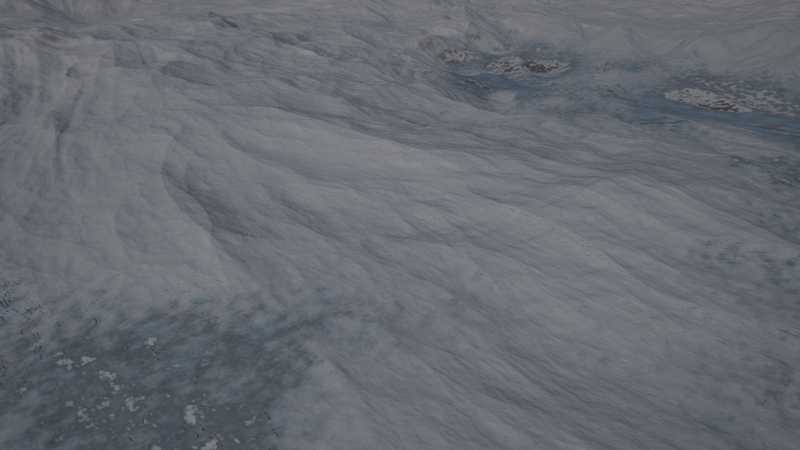
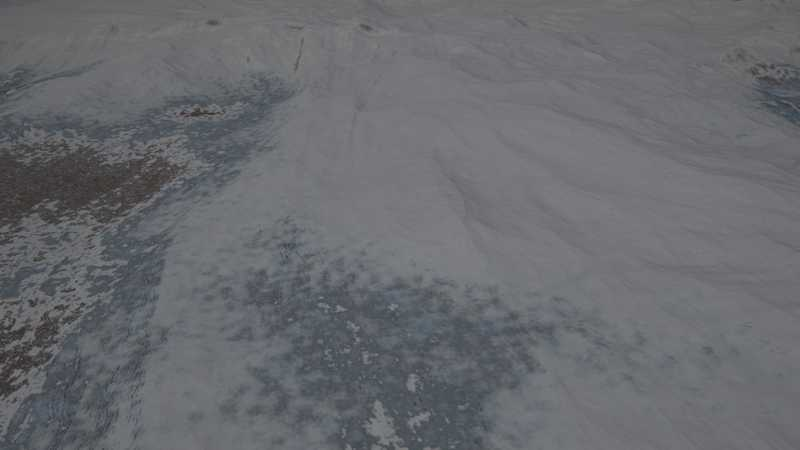
cold kit: seasonal snow date fades to the ecoregion border (no snow-free blobs in the mosaic), ragged melt edge with polygon snow net; no managed forestry where biome trees < 0.6 (temperate minimal change); new stills

diff --git a/crates/terragen/src/kits/cold.rs b/crates/terragen/src/kits/cold.rs
@@ -102,9 +102,9 @@ pub(crate) fn climate(s: &Stack) -> ColdClimate {
     let site = &s.bio.site;
     let f = |x: f64| x as f32 as f64;
     let d = year_date(f(site.temp_c), f(site.precip_mm), f(site.temp_range_c), s.bio.style.season);
-    // (where the ecoregions' mosaic is below the pixel, the date's effect fades to the border,
-    // where both sides meet at the annual mean: no seam between a winter and a summer ecoregion)
-    let date = ts - half * (std::f64::consts::TAU * (d - 0.04)).cos() * (1.0 - 2.0 * s.bio.w).max(0.0);
+    // (the date's effect fades to the ecoregion border over the ecotone, where both sides meet at
+    // the annual mean: no patches of a winter and a spring ecoregion in the border mosaic)
+    let date = ts - half * (std::f64::consts::TAU * (d - 0.04)).cos() * smoothstep(0.0, 10.0, s.bio.edge_km);
     ColdClimate { t: ts, summer: ts + 0.95 * half, date }
 }
 
@@ -837,7 +837,22 @@ fn snow(s: &mut Stack, c: &ColdClimate, g: &Ice) {
         }
     }
     // (slopes facing the equator lose their snow first)
-    let mut cov = smoothstep(-0.8, -1.2, c.date + n + 2.5 * sunny(s).clamp(-1.0, 1.0)) * (1.0 - smoothstep(0.75, 1.3, s.l.slope));
+    let mut x = c.date + n + 2.5 * sunny(s).clamp(-1.0, 1.0);
+    // late melt: rims and centres of the frost polygons bare first, the troughs keep their snow
+    // (a net of snow), the edges ragged with fine noise
+    if x > -3.2 && x < 1.0 {
+        let b4 = band(4.0, gsd);
+        if b4 > 0.0 {
+            x += 0.8 * perlin3(SEED_SNOW + 4, p / 4.0) * b4 + 0.4 * perlin3(SEED_SNOW + 5, p / 1.3) * band(1.3, gsd);
+        }
+        let b18 = band(18.0, gsd);
+        if b18 > 0.0 {
+            let wc = worley3(SEED_SNOW + 6, p, 18.0, 0.9);
+            let ed = worley_edge_dist(&wc, p);
+            x += 1.2 * (u01k(wc.id, 1) - 0.5) * b18 - 1.6 * (1.0 - smoothstep(0.0, 1.8, ed)) * b18;
+        }
+    }
+    let mut cov = smoothstep(-0.55, -1.25, x) * (1.0 - smoothstep(0.75, 1.3, s.l.slope));
     if cov <= 0.0 {
         return;
     }

diff --git a/crates/terragen/src/kits/temperate.rs b/crates/terragen/src/kits/temperate.rs
@@ -209,7 +209,9 @@ fn forestry(s: &Stack) -> f64 {
         4 | 5 | 10 => 0.2,
         _ => 0.1,
     };
-    a * (0.35 + 0.9 * eco_u1(s)) * (0.6 + 0.6 * st.development) * (1.0 - smoothstep(14.0, 19.0, s.bio.site.temp_c))
+    // (no managed forest where the biome's trees are sparse: forest tundra, tundra, polar desert)
+    let productive = smoothstep(0.6, 0.75, s.veg(|v| v.trees));
+    a * (0.35 + 0.9 * eco_u1(s)) * (0.6 + 0.6 * st.development) * (1.0 - smoothstep(14.0, 19.0, s.bio.site.temp_c)) * productive
 }
 
 /// The natural forest at the sample as the canopy draws it (0..1, crisp at its edges): the

diff --git a/docs/kits/cold.md b/docs/kits/cold.md
@@ -55,18 +55,21 @@ kit draws.
 ## Stills
 
 GPU-generated (`terrain survey`, `AERIALSYNTH_GPU_STRICT=1`), default world, 10:30 local on the
-equinox. Lat, lon in brackets.
+equinox (glacier and polygon tundra: 12:00 at the December solstice). Lat, lon in brackets.
 
-**Valley glacier** (-66.095, 123.288, oblique 1.5 km): firn, crevasse fields, flow lines.
+**Valley glacier** (-66.095, 123.288, oblique 1.5 km, summer solstice noon): firn, dirty ice, crevasse
+fields, flow lines. The stills' grey snow is the sensor's fixed exposure, not the albedo.
 ![glacier](images/cold_glacier_1500m.jpg)
 
 **Ice field** (-72.199, -89.333, oblique 10 km): outlet streams, moraine bands.
 ![ice field](images/cold_icefield_10km.jpg)
 
-**Snow-patched polygon tundra** (-72.339, -102.499, oblique 300 m)
-![polygons](images/cold_polygons_300m.jpg)
+**Late-melt polygon tundra** (-72.339, -102.499, oblique 1.5 km): the bare patches are fragments
+with a polygon net of snow in the troughs, not blobs.
+![polygons](images/cold_polygons_1500m.jpg)
 
-**Kettle lakes and snowy taiga** (58.609, -92.893, oblique 1.5 km)
+**Kettle lakes and snowy taiga** (58.609, -92.893, oblique 1.5 km); the pale rectangles are the
+temperate kit's boreal clear-cuts (this is taiga at 2 C, not forest tundra).
 ![kettle](images/cold_kettle_1500m.jpg)
 
 **Forest tundra** (-71.075, -168.603, oblique and nadir 300 m): ice-wedge polygons, thermokarst
@@ -80,3 +83,11 @@ ponds.
 
 **Drumlin field under snow** (57.314, -26.177, nadir 10 km): the relief is subtle under the snow.
 ![drumlins](images/cold_drumlins_10km_nadir.jpg)
+
+## Notes
+
+* Seasonal snow's date fades to the annual mean over 10 km towards an ecoregion border (the
+  mosaic of two ecoregions with different dates drew snow-free blobs next to snow). The melt edge
+  is ragged with fine noise and a snow net along ~18 m polygon troughs.
+* The temperate kit's `forestry` is zero where the biome's trees are below 0.6 (forest tundra,
+  tundra, polar desert): no managed stands there.
